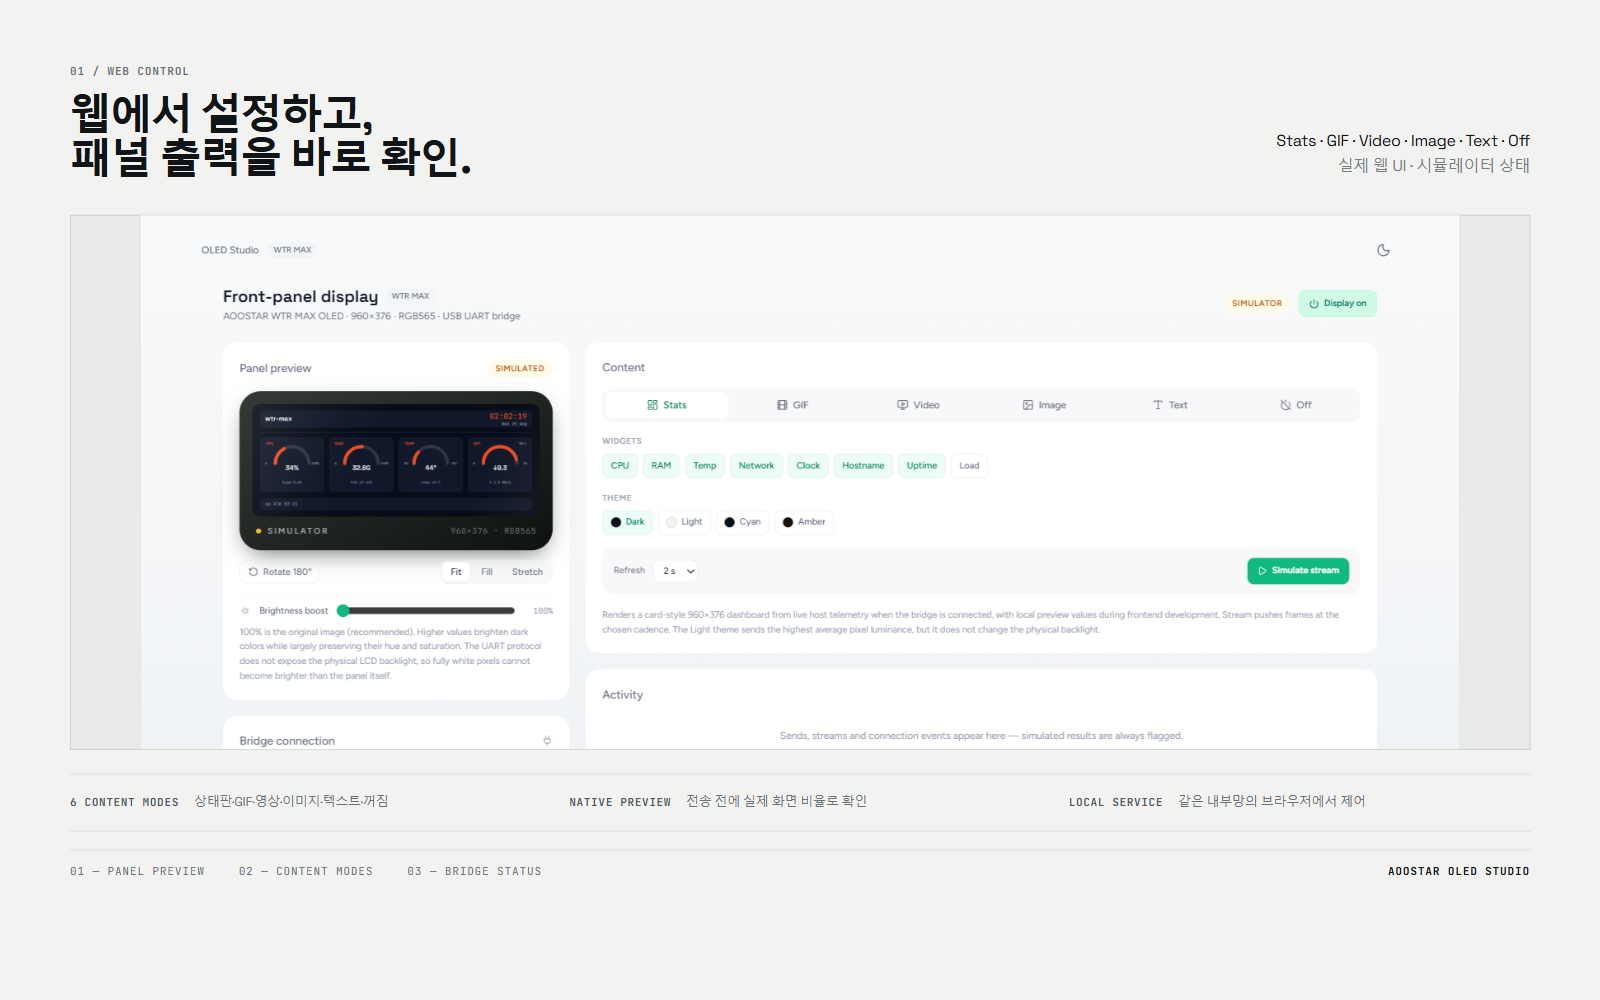
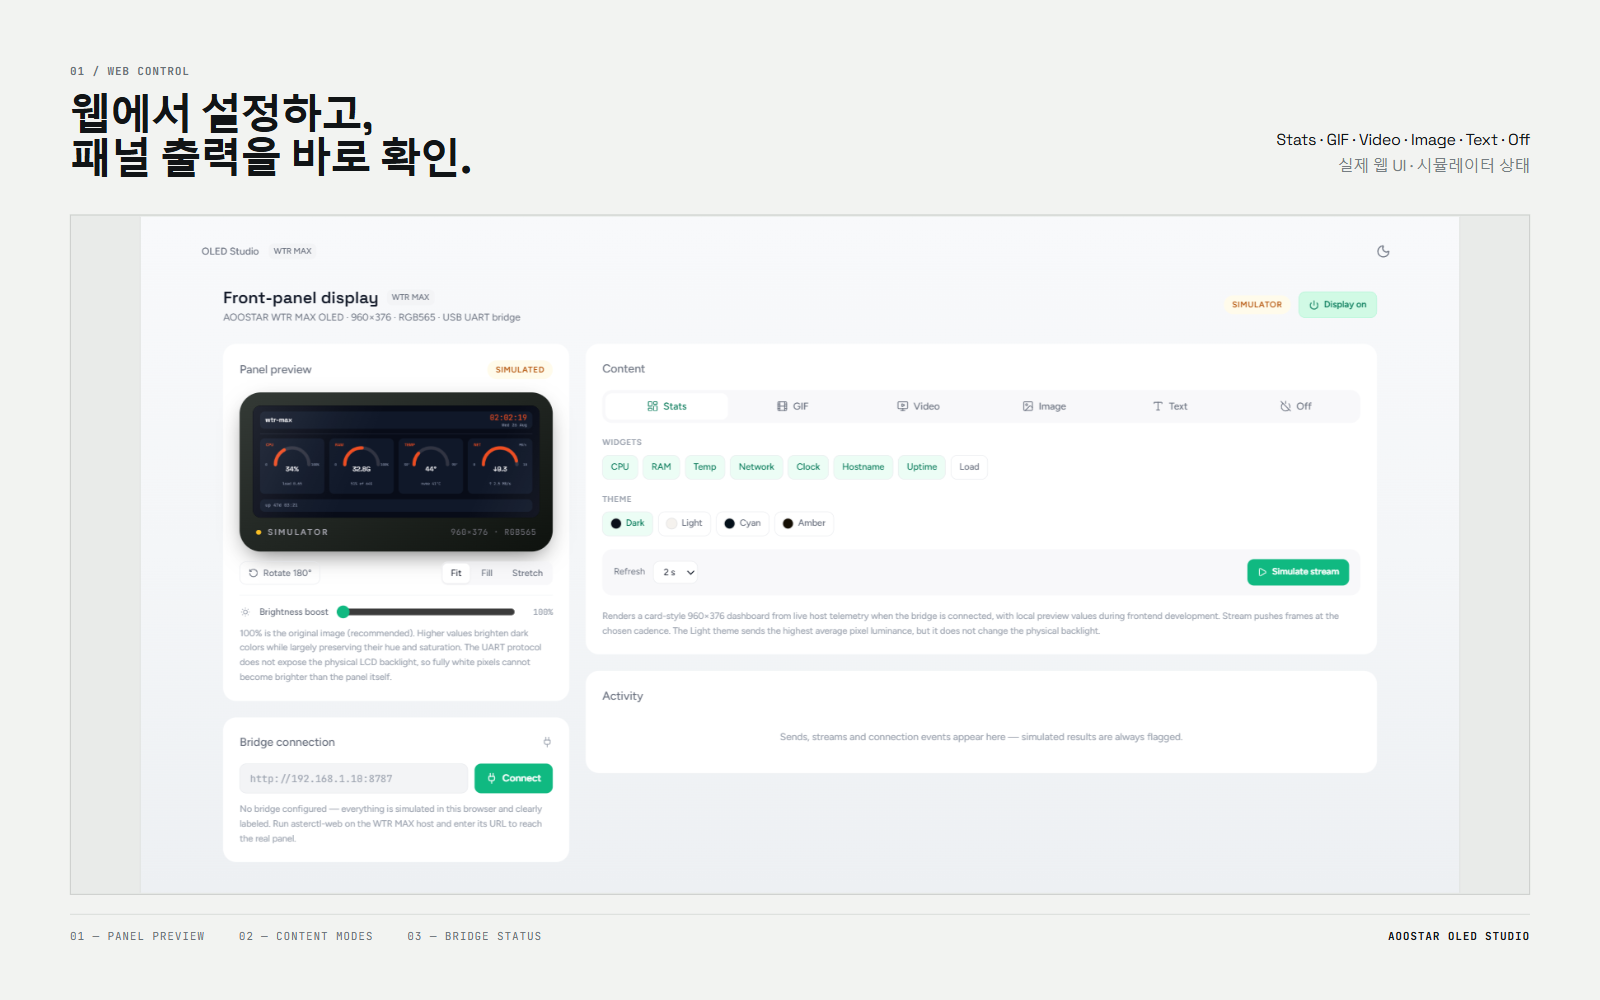
Revert "docs: keep portfolio frames marketplace-safe"
This reverts commit 22207c23e034d4d4fbf901bfdd482130fd6de861.

diff --git a/docs/portfolio/portfolio.css b/docs/portfolio/portfolio.css
@@ -366,13 +366,13 @@ figcaption {
 }
 
 .web-frame {
-  height: 535px;
+  height: 680px;
   margin-top: 34px;
   overflow: hidden;
   border: 1px solid #c2c6c2;
   background: #e9ebe9;
   display: grid;
-  place-items: start center;
+  place-items: center;
 }
 
 .web-frame img {
@@ -383,45 +383,11 @@ figcaption {
   border-right: 1px solid #d5d8d5;
 }
 
-.web-notes {
-  display: grid;
-  grid-template-columns: repeat(3, 1fr);
-  gap: 38px;
-  margin-top: 24px;
-  padding: 19px 0 20px;
-  border-top: 1px solid #cdd0cd;
-  border-bottom: 1px solid #cdd0cd;
-}
-
-.web-notes div {
-  display: grid;
-  grid-template-columns: auto 1fr;
-  gap: 15px;
-  align-items: baseline;
-}
-
-.web-notes b {
-  font-family: 'JetBrains Mono', Consolas, monospace;
-  color: #51595e;
-  font-size: 11px;
-  line-height: 1;
-  letter-spacing: 0.06em;
-  white-space: nowrap;
-}
-
-.web-notes span {
-  color: #697176;
-  font-size: 13px;
-  line-height: 1.35;
-  letter-spacing: -0.02em;
-  word-break: keep-all;
-}
-
 .detail-foot {
   display: flex;
   gap: 34px;
   align-items: center;
-  margin-top: 18px;
+  margin-top: 19px;
   padding-top: 14px;
   border-top: 1px solid #cdd0cd;
   font-size: 11px;

diff --git a/docs/portfolio/index.html b/docs/portfolio/index.html
@@ -73,12 +73,6 @@
           <img src="../img/oled-studio-web-ui.png" alt="OLED Studio 전체 웹 인터페이스" />
         </figure>
 
-        <div class="web-notes">
-          <div><b>6 CONTENT MODES</b><span>상태판·GIF·영상·이미지·텍스트·꺼짐</span></div>
-          <div><b>NATIVE PREVIEW</b><span>전송 전에 실제 화면 비율로 확인</span></div>
-          <div><b>LOCAL SERVICE</b><span>같은 내부망의 브라우저에서 제어</span></div>
-        </div>
-
         <footer class="detail-foot light-foot">
           <span>01 — PANEL PREVIEW</span>
           <span>02 — CONTENT MODES</span>
